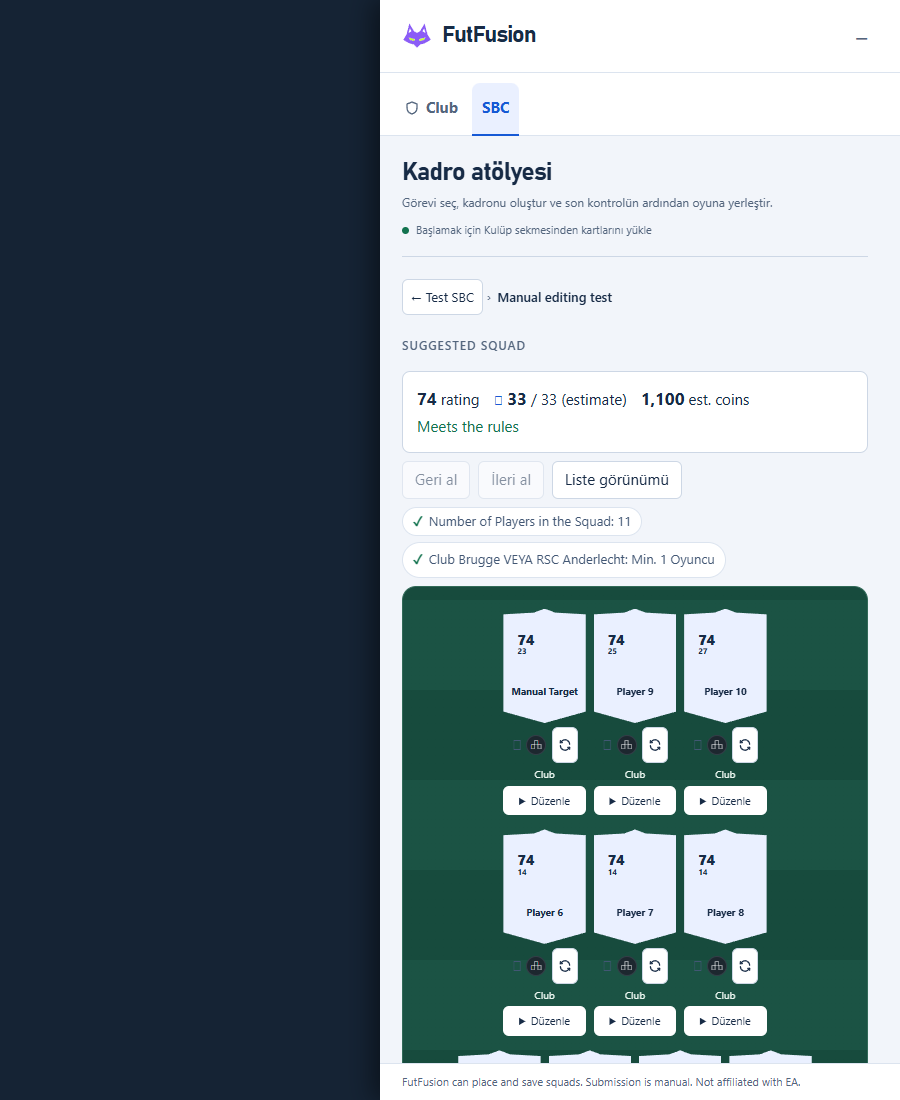
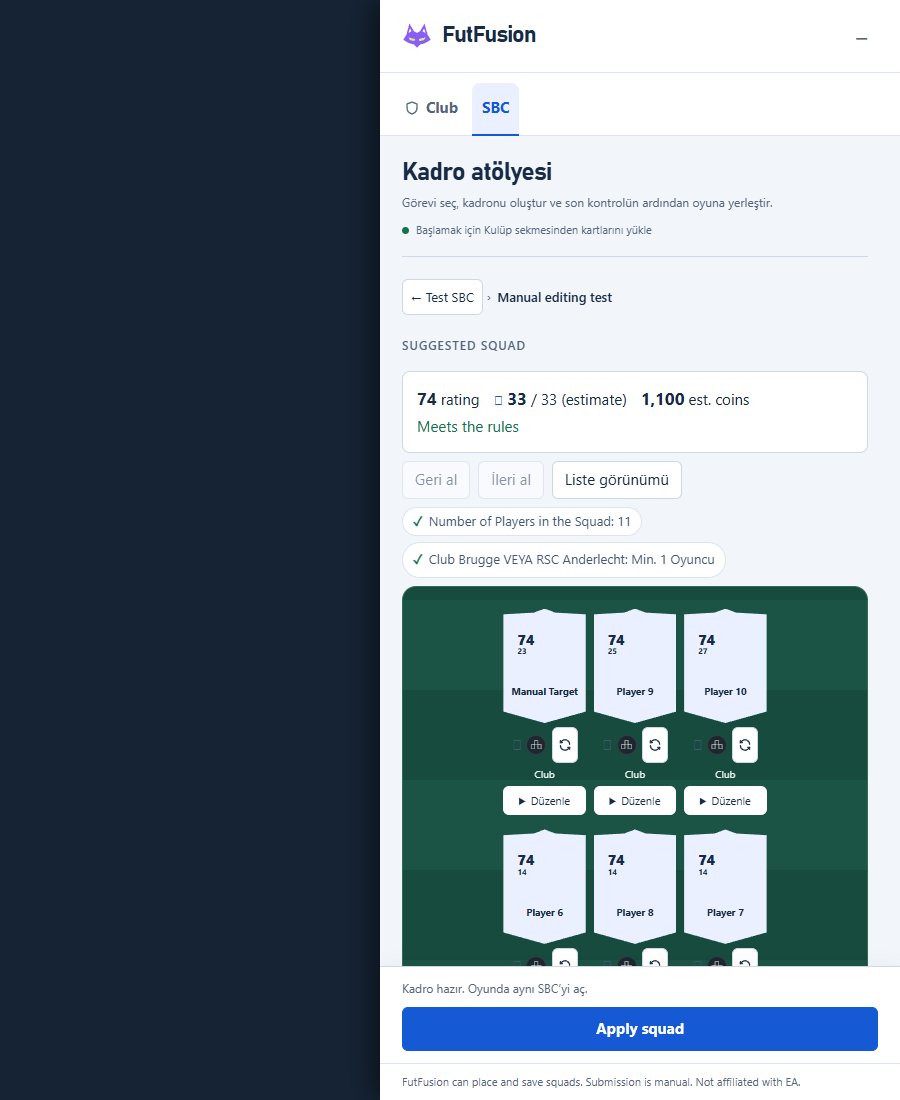
feat(ui): keep squad action visible and add keyboard tab navigation

Changed region(s): [[0.4356, 0.8655, 0.9956, 0.9891]]

diff --git a/src/page/panel.js b/src/page/panel.js
@@ -1412,12 +1412,10 @@
         el('section', {}, [
           el('h2', { text: 'Oyuna yerleştir' }),
           state.result.kind !== 'score' ? el('p', { class: 'summary', text: `${state.result.squad.filter((s) => s.player && s.player.source !== 'market').length} oyuncu yerleştirilecek · ${state.result.squad.filter((s, i) => (!state.result.required || state.result.required.has(i)) && (!s.player || s.player.source === 'market')).length} yuva boş kalacak · ${state.result.ruleResults.filter((r) => r.shortfall > 0).length} eksik şart` }) : null,
-          el('p', { text: state.result.kind === 'score' ? 'Bu SBC’nin kart seçicisini açıp Solve Squad’a bas. Önerilen kartlar seçilir; gönderme işlemi sana kalır.' : 'Bu SBC’yi Web App’te aç, ardından Solve Squad’a bas. Hesaplanan kadro yerleştirilip kaydedilir.' }),
-          el('button', { class: 'primary', type: 'button', disabled: !!state.applying, text: state.applying ? 'Yerleştiriliyor…' : 'Solve Squad', onclick: applyComputedSquad }),
-          state.applyMessage ? el('p', { class: 'note', text: state.applyMessage }) : null,
+          el('p', { text: state.result.kind === 'score' ? 'Bu SBC’nin kart seçicisini açıp alttaki yerleştirme düğmesine bas. Önerilen kartlar seçilir; gönderme işlemi sana kalır.' : 'Bu SBC’yi Web App’te aç, ardından alttaki yerleştirme düğmesine bas. Hesaplanan kadro yerleştirilip kaydedilir.' }),
           state.error ? el('p', { class: 'error', text: state.error }) : null,
         ].filter(Boolean)),
-        state.result.kind === 'score' ? null : placeSteps(false),
+        state.result.kind === 'score' ? null : el('details', { class: 'trade-settings' }, [el('summary', { text: 'Oyunda elle yerleştirme rehberi' }), placeSteps(false)]),
       ];
     }
 
@@ -1464,7 +1462,7 @@
         ]),
         el('p', { class: 'note', text: t('In the way? Drag the list, the FutFox button or this panel by its top bar anywhere on the screen. A double-click puts it back.') }),
         el('div', { class: 'row' }, [
-          el('button', { class: 'primary', type: 'button', text: t('Place it in the game'), onclick: () => { state.placing = true; state.dockClosed = false; hidePanel(); } }),
+          el('button', { type: 'button', text: t('Place it in the game'), onclick: () => { state.placing = true; state.dockClosed = false; hidePanel(); } }),
         ]),
       ]);
     }
@@ -2243,7 +2241,16 @@
         const src = ART[name] || (name === 'gallery' ? ART.token : null);
         return src ? el('img', { src, alt: '' }) : null;
       };
-      const tab = (name, label) => el('button', { type: 'button', role: 'tab', 'aria-selected': String(view === name), onclick: () => setView(name) }, [tabIcon(name), label]);
+      const tab = (name, label) => el('button', { type: 'button', role: 'tab', id: `ff-tab-${name}`, 'aria-controls': 'ff-tabpanel', tabindex: view === name ? '0' : '-1', 'aria-selected': String(view === name), onclick: () => setView(name), onkeydown: (event) => {
+        const available = TABS.filter((name) => name !== 'gallery' || H.fut.galleryEnabled);
+        let index = available.indexOf(view);
+        if (event.key === 'ArrowRight') index += H.i18n.dir() === 'rtl' ? -1 : 1;
+        else if (event.key === 'ArrowLeft') index += H.i18n.dir() === 'rtl' ? 1 : -1;
+        else if (event.key === 'Home') index = 0;
+        else if (event.key === 'End') index = available.length - 1;
+        else return;
+        event.preventDefault(); setView(available[(index + available.length) % available.length]); panel.querySelector('.tabs [aria-selected="true"]')?.focus();
+      } }, [tabIcon(name), label]);
       const page = { view, depth: pageNow(view, entry) };
       const last = state.page;
       state.page = page;
@@ -2289,10 +2296,15 @@
           ]),
           state.error ? el('p', { class: 'error', text: state.error }) : null,
         ]),
+        view === 'sbc' && state.result && state.showSquad && !state.solving ? el('div', { class: 'action-bar' }, [
+          el('span', { class: 'note', role: 'status', text: state.applyMessage || (state.result.kind === 'score' ? 'Kart seçicisi açık olmalı. Gönderim sana ait.' : state.result.feasible ? 'Kadro hazır. Oyunda aynı SBC’yi aç.' : 'Eksik kadro taslak olarak yerleştirilecek.') }),
+          el('button', { class: 'primary', type: 'button', disabled: !!state.applying, text: state.applying ? 'Yerleştiriliyor…' : t('Apply squad'), onclick: applyComputedSquad }),
+        ]) : null,
         el('footer', { text: t('FutFusion can place and save squads. Submission is manual. Not affiliated with EA.') }),
       ].filter(Boolean));
       const body = panel.querySelector('.body');
       if (body) {
+        body.id = 'ff-tabpanel'; body.setAttribute('role', 'tabpanel'); body.setAttribute('aria-labelledby', `ff-tab-${view}`);
         const intro = view === 'club' ? ['Kulübün', 'Kartlarını güncelle, korumalarını belirle ve çalışma alanını yönet.']
           : view === 'gallery' ? ['Koleksiyon planı', 'Kadronu seç, bütçeni belirle ve kartlarının ilerlemesini takip et.']
           : ['Kadro atölyesi', 'Görevi seç, kadronu oluştur ve son kontrolün ardından oyuna yerleştir.'];

diff --git a/src/page/panel-styles.js b/src/page/panel-styles.js
@@ -493,6 +493,10 @@
     .workspace-intro p { margin: 0; font-size: 12px; color: #53657D; line-height: 1.6; }
     .workspace-status { display: flex; align-items: center; gap: 7px; font-size: 11px; color: #53657D; margin-top: 5px; }
     .workspace-status::before { content: ''; width: 7px; height: 7px; border-radius: 50%; background: #13734F; }
+    .action-bar { display: grid; gap: 8px; background: #FFFFFF; border-top: 1px solid #CDD7E5; padding: 12px 22px; flex: none; box-shadow: 0 -4px 16px #172B4608; }
+    .action-bar button { min-height: 44px; }
+    .action-bar .note { margin: 0; max-height: 54px; overflow-y: auto; }
+    summary:focus-visible, a:focus-visible { outline: 2px solid #1659D5; outline-offset: 3px; }
     footer { background: #FFFFFF; font-size: 11px; padding: 10px 22px; }
     .error { color: #A7293B; background: #FFF0F2; padding: 12px; border-radius: 8px; overflow-wrap: anywhere; }
     @media (max-width: 420px) { .body { padding: 14px; } .trade-metrics > div { padding: 12px 7px; } .trade-metrics strong { font-size: 20px; } .panel .pair { grid-template-columns: 1fr; } }

diff --git a/src/core/i18n.js b/src/core/i18n.js
@@ -5,6 +5,7 @@
   'use strict';
 
   const AR = {
+    'Apply squad': 'ضع التشكيلة في اللعبة',
     'FutFusion can place and save squads. Submission is manual. Not affiliated with EA.': 'يمكن لـ FutFusion وضع التشكيلة وحفظها. الإرسال يدوي. غير تابع لـ EA.',
     // ---- Panel frame -------------------------------------------------------------------
     'Resize FutFox': 'تغيير حجم FutFox',
@@ -353,6 +354,7 @@
   };
 
   const TR = {
+  "Apply squad": "Kadroyu oyuna yerleştir",
   "FutFusion can place and save squads. Submission is manual. Not affiliated with EA.": "FutFusion kadroyu yerleştirir ve kaydeder. Gönderim sana aittir. EA ile bağlantılı değildir.",
   "Resize FutFox": "FutFusion boyutunu değiştir",
   "Drag to resize": "Boyutlandırmak için sürükle",
